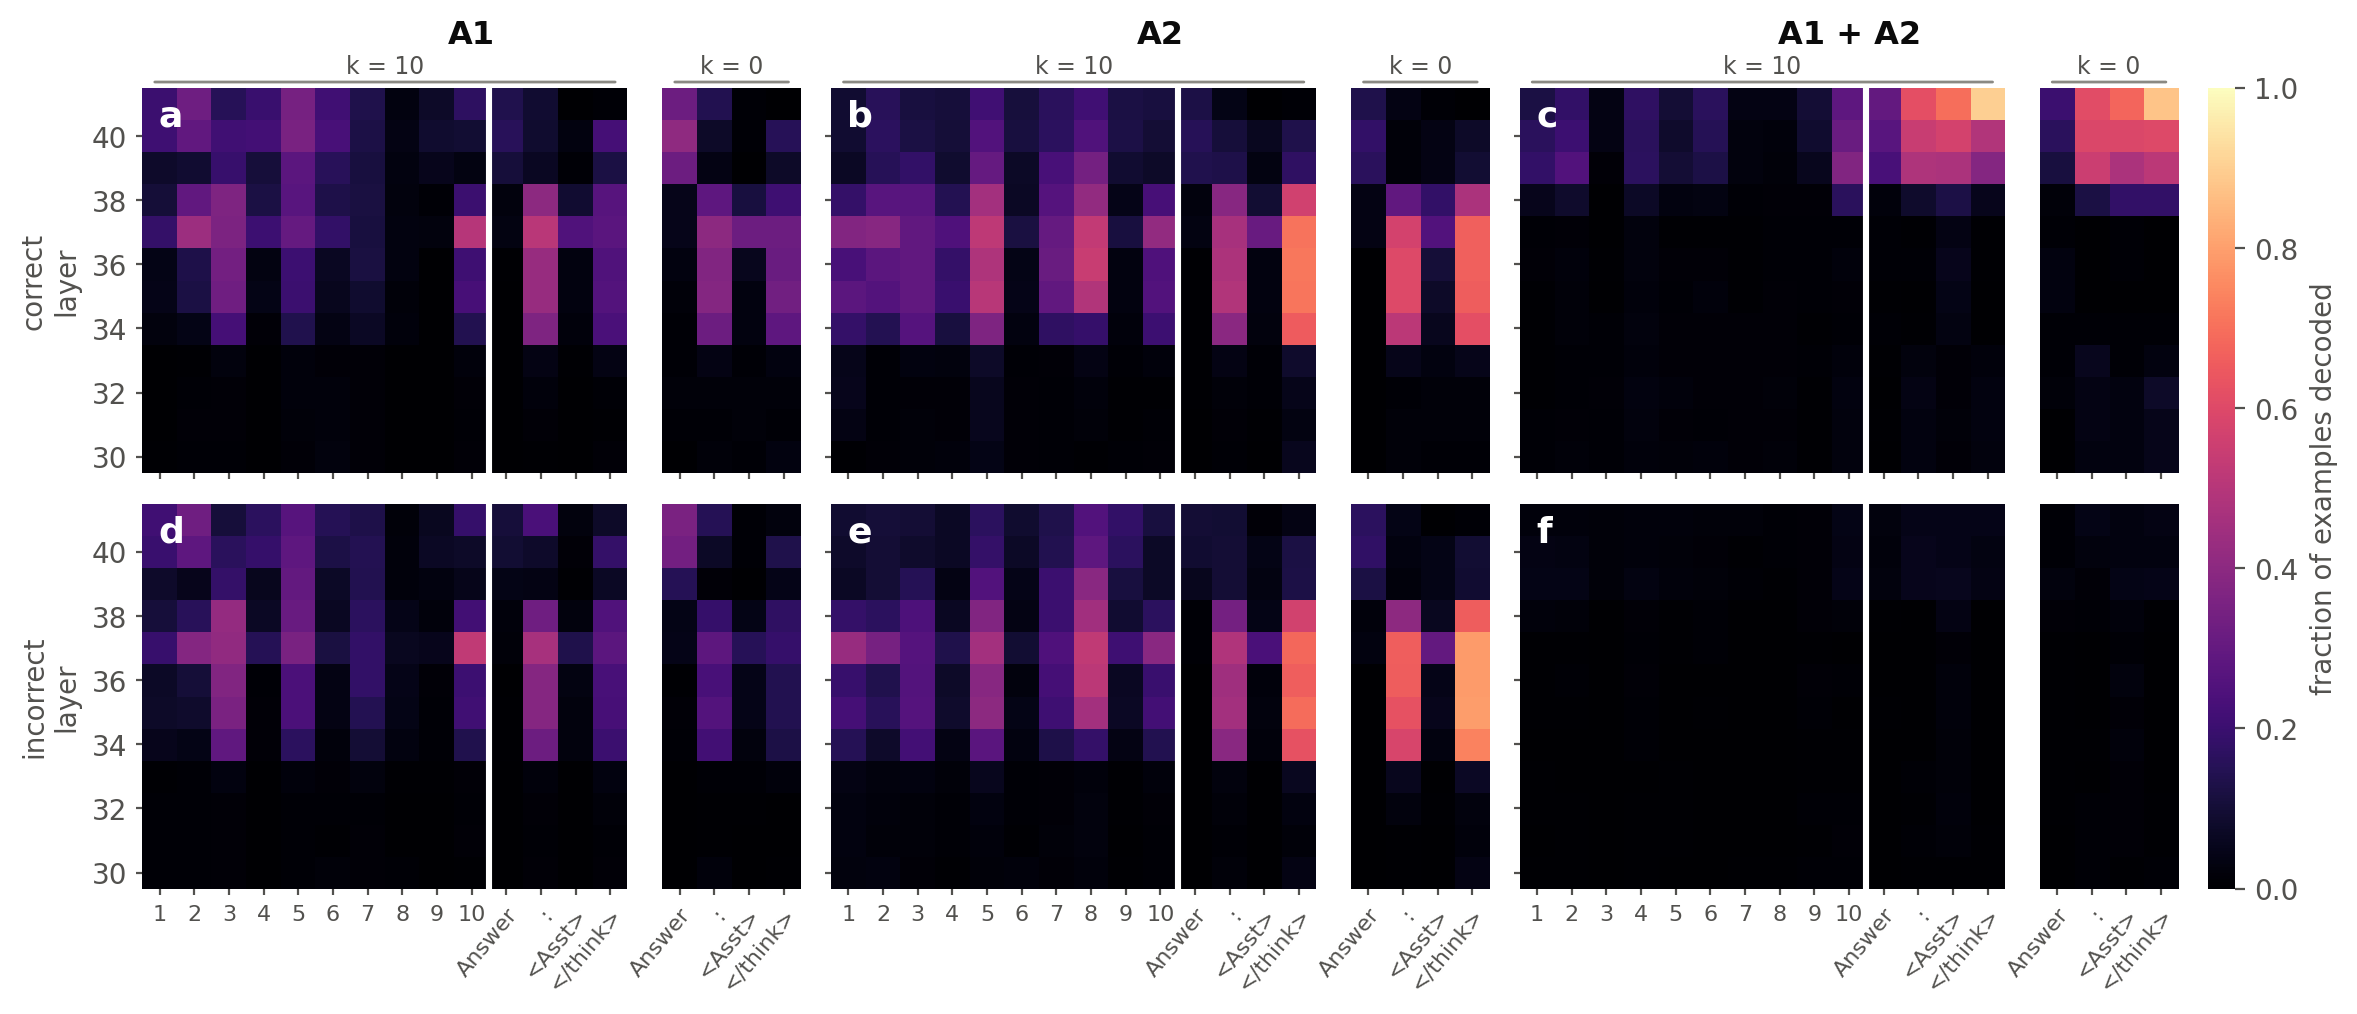
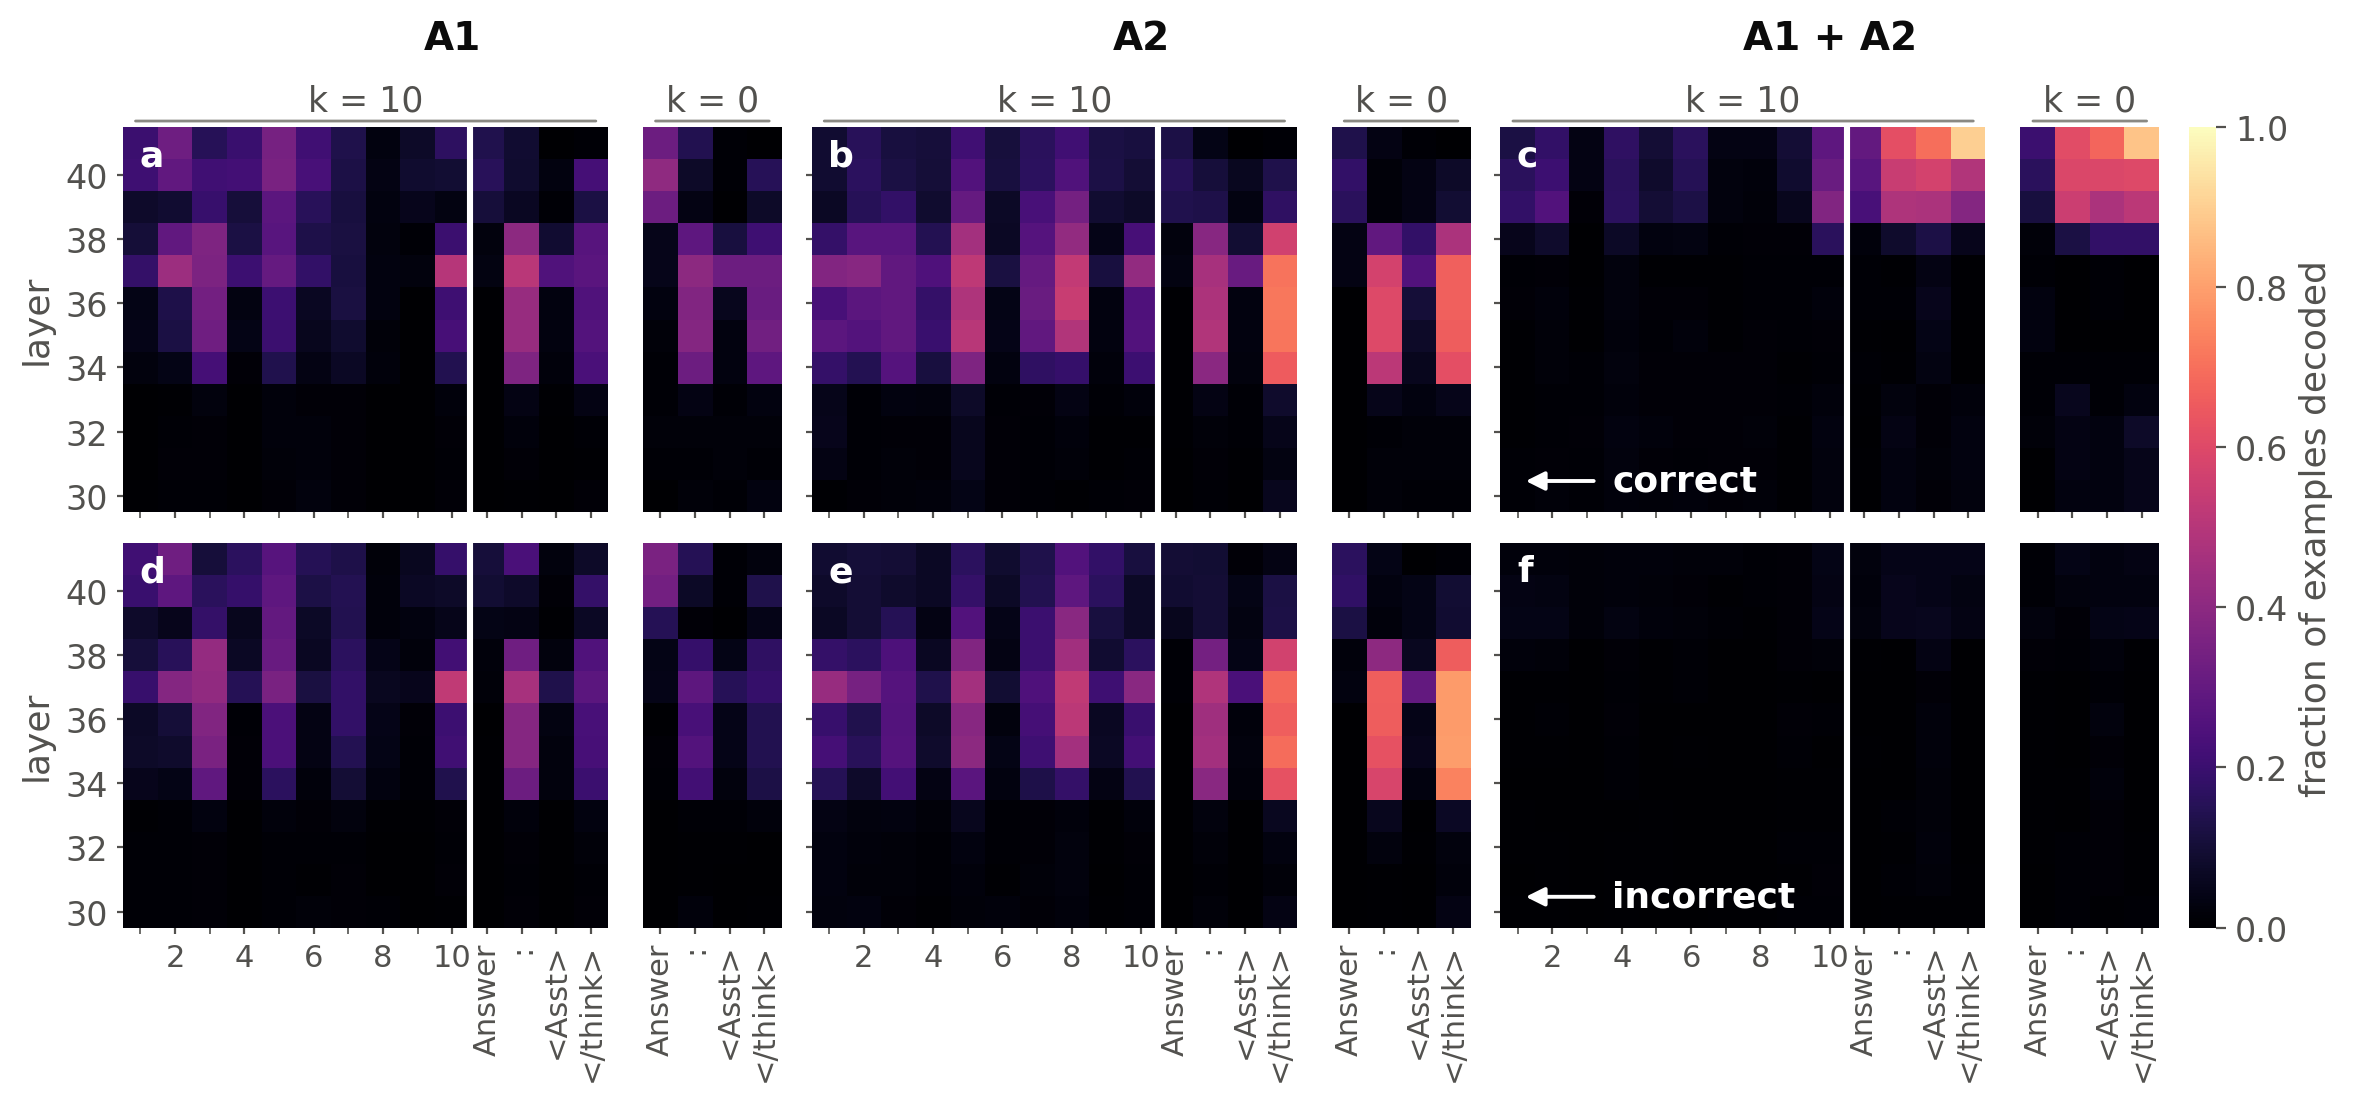
updated filler token uplift

diff --git a/_projects/filler-token-uplift.md b/_projects/filler-token-uplift.md
@@ -1,15 +1,13 @@
 ---
 layout: page
-# Draft: not built on the live site. Preview with `bundle exec jekyll serve --unpublished`.
-published: false
+published: false # Preview with `bundle exec jekyll serve --unpublished`.
 title: "Filler Token Uplift in DeepSeek V4 Flash"
-description: "Reading out how meaningless filler tokens help a model compose recalled facts, with a Jacobian lens."
+description: "Using a Jacobian lens to read how filler tokens help models perform better fact composition tasks."
 importance: 2
 category: ai-safety
 ---
 
-> ***Status: in progress.*** *The behavioural results and a first j-lens readout are done. The j-lens currently performs about as well as the logit lens; the next step is to look at top-k tokens instead of only the top token.*
-{: .block-tip }
+> ***Status: in progress.***
 
 My first project focused on using a new interpretability method to understand how adding meaningless, filler tokens at the end of a question increased model performance on non-reasoning tasks in a large number of frontier large language models (LLMs) ([Greenblatt, 2025](https://www.lesswrong.com/posts/NYzYJ2WoB74E6uj9L)). I first replicated the methods from a paper that applied a logit lens to DeepSeek V3 and Kimi-K2 ([Brauer et. al., 2026](https://arxiv.org/pdf/2607.03502)) and found that in these models, attention routes the question through filler tokens to the answer and that logit-lens readouts show that retrieved facts appear early at filler token positions and help with answer composition in late layers. My own results are similar and show that j-lens performs about equally as logit-lens on readouts. I attribute this to an improper use of j-lens on my part, which could be improved by looking at top-k tokens to fully explore the model's workspace ([Gurnee et. al., 2026](https://transformer-circuits.pub/2026/workspace/index.html)).
 
@@ -24,7 +22,7 @@ The task for the LLM is to add two numbers together, where those numbers must be
 Figure 1: Accuracy of DeepSeek V4 Flash on (a) 1-fact addition tasks and (b) 2-fact addition tasks for various filler tokens, compared to available data from DeepSeek V3 and Kimi-K2. Error bars show the 95% Wilson confidence intervals for (a) n=800 tasks and (b) n=1500 tasks.
 </div>
 
-Following the methodology in ([Brauer et. al., 2026](https://arxiv.org/pdf/2607.03502)), I then do a readout of the residual stream with a fitted j-lens ([Blanks et. al., 2026](https://www.lesswrong.com/posts/nv8oedrnLXKRzNEL9/r-lens-making-j-lens-more-faithful-on-early-layers)) at every layer and filler and answer block token positions.
+Following the methodology in ([Brauer et. al., 2026](https://arxiv.org/pdf/2607.03502)), I then do a top-token readout of the residual stream with a fitted j-lens ([Blanks et. al., 2026](https://www.lesswrong.com/posts/nv8oedrnLXKRzNEL9/r-lens-making-j-lens-more-faithful-on-early-layers)) at every layer and filler and answer block token positions. I plot where the top-token corresponds to either the first number ($A_1$), the second number ($A_2$) or their sum ($A_1+A_2$) for responses that produced correct and incorrect answers, as shown in Fig 2\. As can be seen, the rates at which the model recalls each fact individually across filler tokens is quite similar if the model answers correctly or incorrectly as shown in panels (a), (b), (d) and (e). The model succeeds if it manages to compose these two numbers together as shown in panels (c) and (f). Here, we see that a model that answers correctly recalls the token $A_1 + A_2$ in the filler tokens while it does not do so when answering incorrectly. Moreover, $A_1 + A_2$ does not appear at all in the last answer prompt when answering incorrectly. What I find very interesting is when comparing $k=10$ to readouts without filler tokens, we see little difference between rates in the token readouts. As such, we cannot tell how the $A_1$ and $A_2$ readouts affect the likelihood of the composition of $A_1 + A_2$.
 
 <div class="row">
     <div class="col-sm mt-3 mt-md-0">
@@ -35,11 +33,15 @@ Following the methodology in ([Brauer et. al., 2026](https://arxiv.org/pdf/2607.
 Figure 2: Fraction of examples in which the top token decoded by j-lens is the first fact's number (A1), the second fact's number (A2) or their sum (A1 + A2) at each token position and layer, for examples answered correctly (a-c) and incorrectly (d-f). Positions are the 10 filler dots followed by the `Answer` block given to the model. The (k = 0) colorplots show the same final positions without filler dots.
 </div>
 
+The work done by ([Brauer et. al., 2026](https://arxiv.org/pdf/2607.03502)) suggests that the early retrieval of numbers helps cristallize their composition in late layers. Our work shows that the filler token readouts are often used to retrieve facts in the final layers of the LLM and the answer is mostly composed in the 3-4 last layers, as shown in Fig 3\. The j-lens readouts and logit-lens readouts of top-tokens barely differ in this experiment for DeepSeek V4 Flash as the bottom panel indicates. As such, the way I did this j-lens study does not allow me to shed new light into the mechanism that powers filler token uplift. 
+
 <div class="row">
     <div class="col-sm mt-3 mt-md-0">
-        {% include figure.liquid loading="lazy" path="assets/img/projects/filler-token-uplift/jlens_deepseekV4.png" title="j-lens decoding by layer" class="img-fluid rounded" %}
+        {% include figure.liquid loading="lazy" path="assets/img/projects/filler-token-uplift/jlens_deepseekV4_correct.png" title="j-lens decoding by layer" class="img-fluid rounded" %}
     </div>
 </div>
 <div class="caption" markdown="1">
-Figure 3: (a) Percentage of examples decoded at the last filler dot position by the j-lens at each layer of DeepSeek V4 Flash with k = 10 filler dots for A1, A2 and A1 + A2, compared to a shuffled control. (b) Difference between the j-lens and logit-lens decoding rates at each layer at the final filler token position. The grey band shows the 95% chance range for paired comparisons.
+Figure 3: (a) Percentage of correct examples decoded at the last filler dot position by the j-lens at each layer of DeepSeek V4 Flash with k = 10 filler dots for A1, A2 and A1 + A2, compared to a shuffled control. (b) Difference between the j-lens and logit-lens decoding rates at each layer at the final filler token position. The grey band shows the 95% chance range for paired comparisons.
 </div>
+
+My final goal with this project would be to find how non-reasoning models can benefit from filler tokens. This might demonstrate a method by which models can hide away computations that are never revealed in their CoTs, an important result for CoT monitorability. To solve this, I think I need to look at top-k token readouts with the j-lens, accompanied by their respective logits. My hypothesis is that early retrieval of information at filler token positions leaks probability mass towards the answer thus making the composition circuit fire more often, leading to an increase in accuracy on the fact composition tasks.  

diff --git a/_posts/2026-11-24-an-incomplete-state-of-projects.md b/_posts/2026-11-24-an-incomplete-state-of-projects.md
@@ -8,15 +8,13 @@ tags: [evals, training dynamics, j-lens, interpretability, open language models,
 categories: [ai-safety, physics]
 ---
 
-Thanks to a Coefficient Giving grant, I have been exploring the field of AI safety for the last few months. My very first project was exploring filler token uplift in DeepSeek V4 Flash with a j-lens and was done as part of applying to Neel Nanda's MATS stream. After doing the September edition of the Iliad Intensive in London, I decided to explore the field of training dynamics as a way to do theoretical AI alignment work. My hope was that my academic background in dynamical quantum phase transitions would be of substantial help in helping out in that area of research (it is still unclear to me how). In October, I did Bluedot's Technical AI Safety Project, where I decided to do a small project evaluating misalignment in open language models. This led to two separate projects when I found flaws in one benchmark ([A Critique of InstrumentalEval]({% link _projects/a-critique-of-InstrumentalEval.md %})) and then replicated work on evaluation awareness in OLMo 3. To extend the results I obtained, I decided to fit a Jacobian lens to OLMo 3 and use it to study how eval awareness changes throughout post-training with reinforcement learning. I've also explored how frontier language models can help me with theoretical and experimental research. To explore in known territory and validate the results, I threw Claude at the research I did in physics. *This blog post gives a quick overview of each project and how (in)complete it is. Each one has its own project page, which will be updated as the work progresses.*
+Thanks to a Coefficient Giving grant, I have been exploring the field of AI safety for the last few months. My very first project was exploring filler token uplift in DeepSeek V4 Flash with a j-lens and was done as part of applying to Neel Nanda's MATS stream. After doing the September edition of the Iliad Intensive in London, I decided to explore the field of training dynamics as a way to do theoretical AI alignment work. My hope was that my academic background in dynamical quantum phase transitions would be of substantial help in helping out in that area of research (it is still unclear to me how). In October, I did Bluedot's Technical AI Safety Project, where I decided to do a small project evaluating misalignment in open language models. This led to two separate projects when I found flaws in one benchmark ([A Critique of InstrumentalEval]({% link _projects/a-critique-of-InstrumentalEval.md %})) and then replicated work on evaluation awareness in OLMo 3. To extend the results I obtained, I decided to fit a Jacobian lens to OLMo 3 and use it to study how eval awareness changes throughout post-training with reinforcement learning. I've also explored how frontier language models can help me with theoretical and experimental research. To explore in known territory and validate the results, I used Claude to revisist the research I did in physics. This post describes the idea behind each project and thier various states of (in)completeness. Each of these projects have their own page, which will be updated as the work progresses and will eventually become their own blog post.
 
 ## Filler Token Uplift in DeepSeek V4 Flash
 
-*Adding meaningless filler tokens after a question makes many frontier LLMs better at answering it without reasoning. I replicated a logit-lens study of this effect on DeepSeek V4 Flash, using two-fact addition tasks where the model must recall two numbers and add them in a single pass. DeepSeek V4 Flash gains about 10% accuracy from filler tokens, and the recalled facts show up at the filler positions, as in DeepSeek V3 and Kimi-K2.*
+It was discovered that adding meaningless tokens after a question improved frontier large language model (LLM) performance on mathematical tasks ([Greenblatt, 2025](https://www.lesswrong.com/posts/NYzYJ2WoB74E6uj9L)). I replicated a study that used logit-lens to understand how DeepSeek V3 and Kimi-K2 use filler tokens to improve their performance on a variety of tasks ([Brauer et. al., 2026](https://arxiv.org/pdf/2607.03502)), and extended some of their results to DeepSeek V4 Flash. I focused on two-fact addition tasks, where the model scores 10% higher with filler tokens where it must recall and then add two numbers from Greenblatt's *compose facts* repo ([Greenblatt, 2025](https://github.com/rgreenblatt/compose_facts)). I use a j-lens fitted to DeepSeek V4 Flash ([Blanks et. al., 2026](https://www.lesswrong.com/posts/nv8oedrnLXKRzNEL9/r-lens-making-j-lens-more-faithful-on-early-layers)) and do top-token readouts during forward passes at every filler token position and each layer. The j-lens faithfully reproduces previous results but fails to improve upon logit-lens results for top-token readouts. This is the main limitation of this project and the next step is to do top-k token readouts to fully inspect the model's workspace during forward passes ([Gurnee et. al., 2026](https://transformer-circuits.pub/2026/workspace/index.html)).
 
-**Status:** *behavioural results and a first j-lens readout are done. The j-lens currently does no better than the logit lens, which I think comes from only looking at the top token. Next is a top-k readout.*
-
-**[Project page →]({% link _projects/filler-token-uplift.md %})**
+**[Filler token uplift project page →]({% link _projects/filler-token-uplift.md %})**
 
 ## Inductive Bias under Muon
 
@@ -26,7 +24,7 @@ Thanks to a Coefficient Giving grant, I have been exploring the field of AI safe
 
 **Status:** <!-- TODO -->
 
-**[Project page →]({% link _projects/inductive-bias-under-muon.md %})**
+**[Inductive bias under Muon project page →]({% link _projects/inductive-bias-under-muon.md %})**
 
 ## Evaluation Awareness in OLMo 3
 
@@ -36,7 +34,7 @@ Thanks to a Coefficient Giving grant, I have been exploring the field of AI safe
 
 **Status:** <!-- TODO -->
 
-**[Project page →]({% link _projects/eval-awareness-in-olmo-3.md %})**
+**[Evaluation awareness in OLMo 3 project page →]({% link _projects/eval-awareness-in-olmo-3.md %})**
 
 ## Fitting a J-lens on OLMo 3
 
@@ -44,7 +42,7 @@ Thanks to a Coefficient Giving grant, I have been exploring the field of AI safe
 
 **Status:** <!-- TODO -->
 
-**[Project page →]({% link _projects/j-lens-on-olmo-3.md %})**
+**[OLMo 3 j-lens project page →]({% link _projects/j-lens-on-olmo-3.md %})**
 
 ## Automating Theoretical Research in Physics
 
@@ -52,6 +50,6 @@ Thanks to a Coefficient Giving grant, I have been exploring the field of AI safe
 
 **Status:** <!-- TODO --> *This will become a series of blog posts.*
 
-**[Project page →]({% link _projects/automating-theoretical-physics-research.md %})**
+**[Automatic theoretical research in physics →]({% link _projects/automating-theoretical-physics-research.md %})**
 
 ## What's next?
